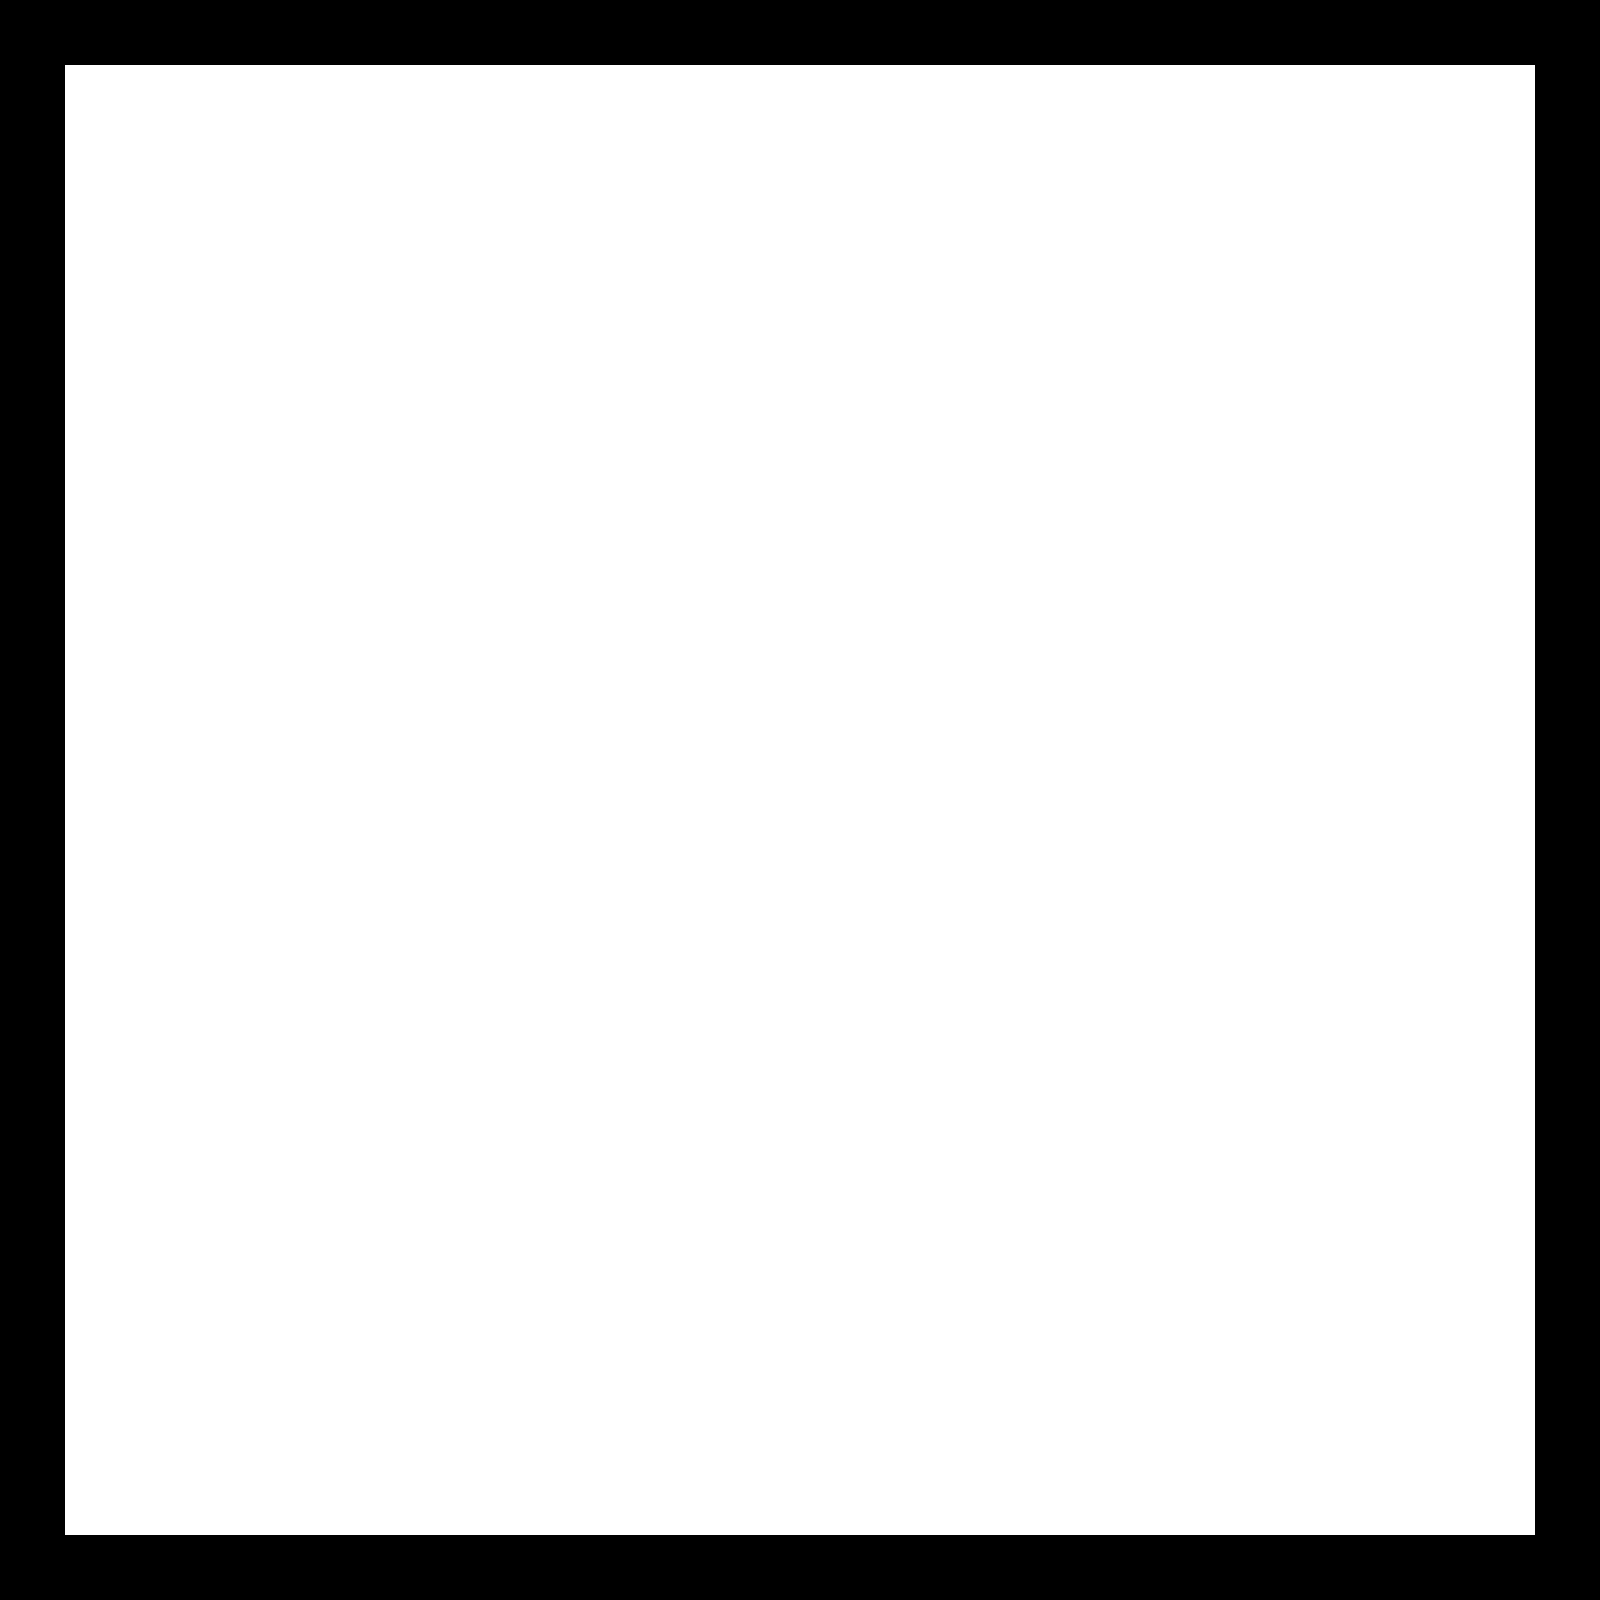
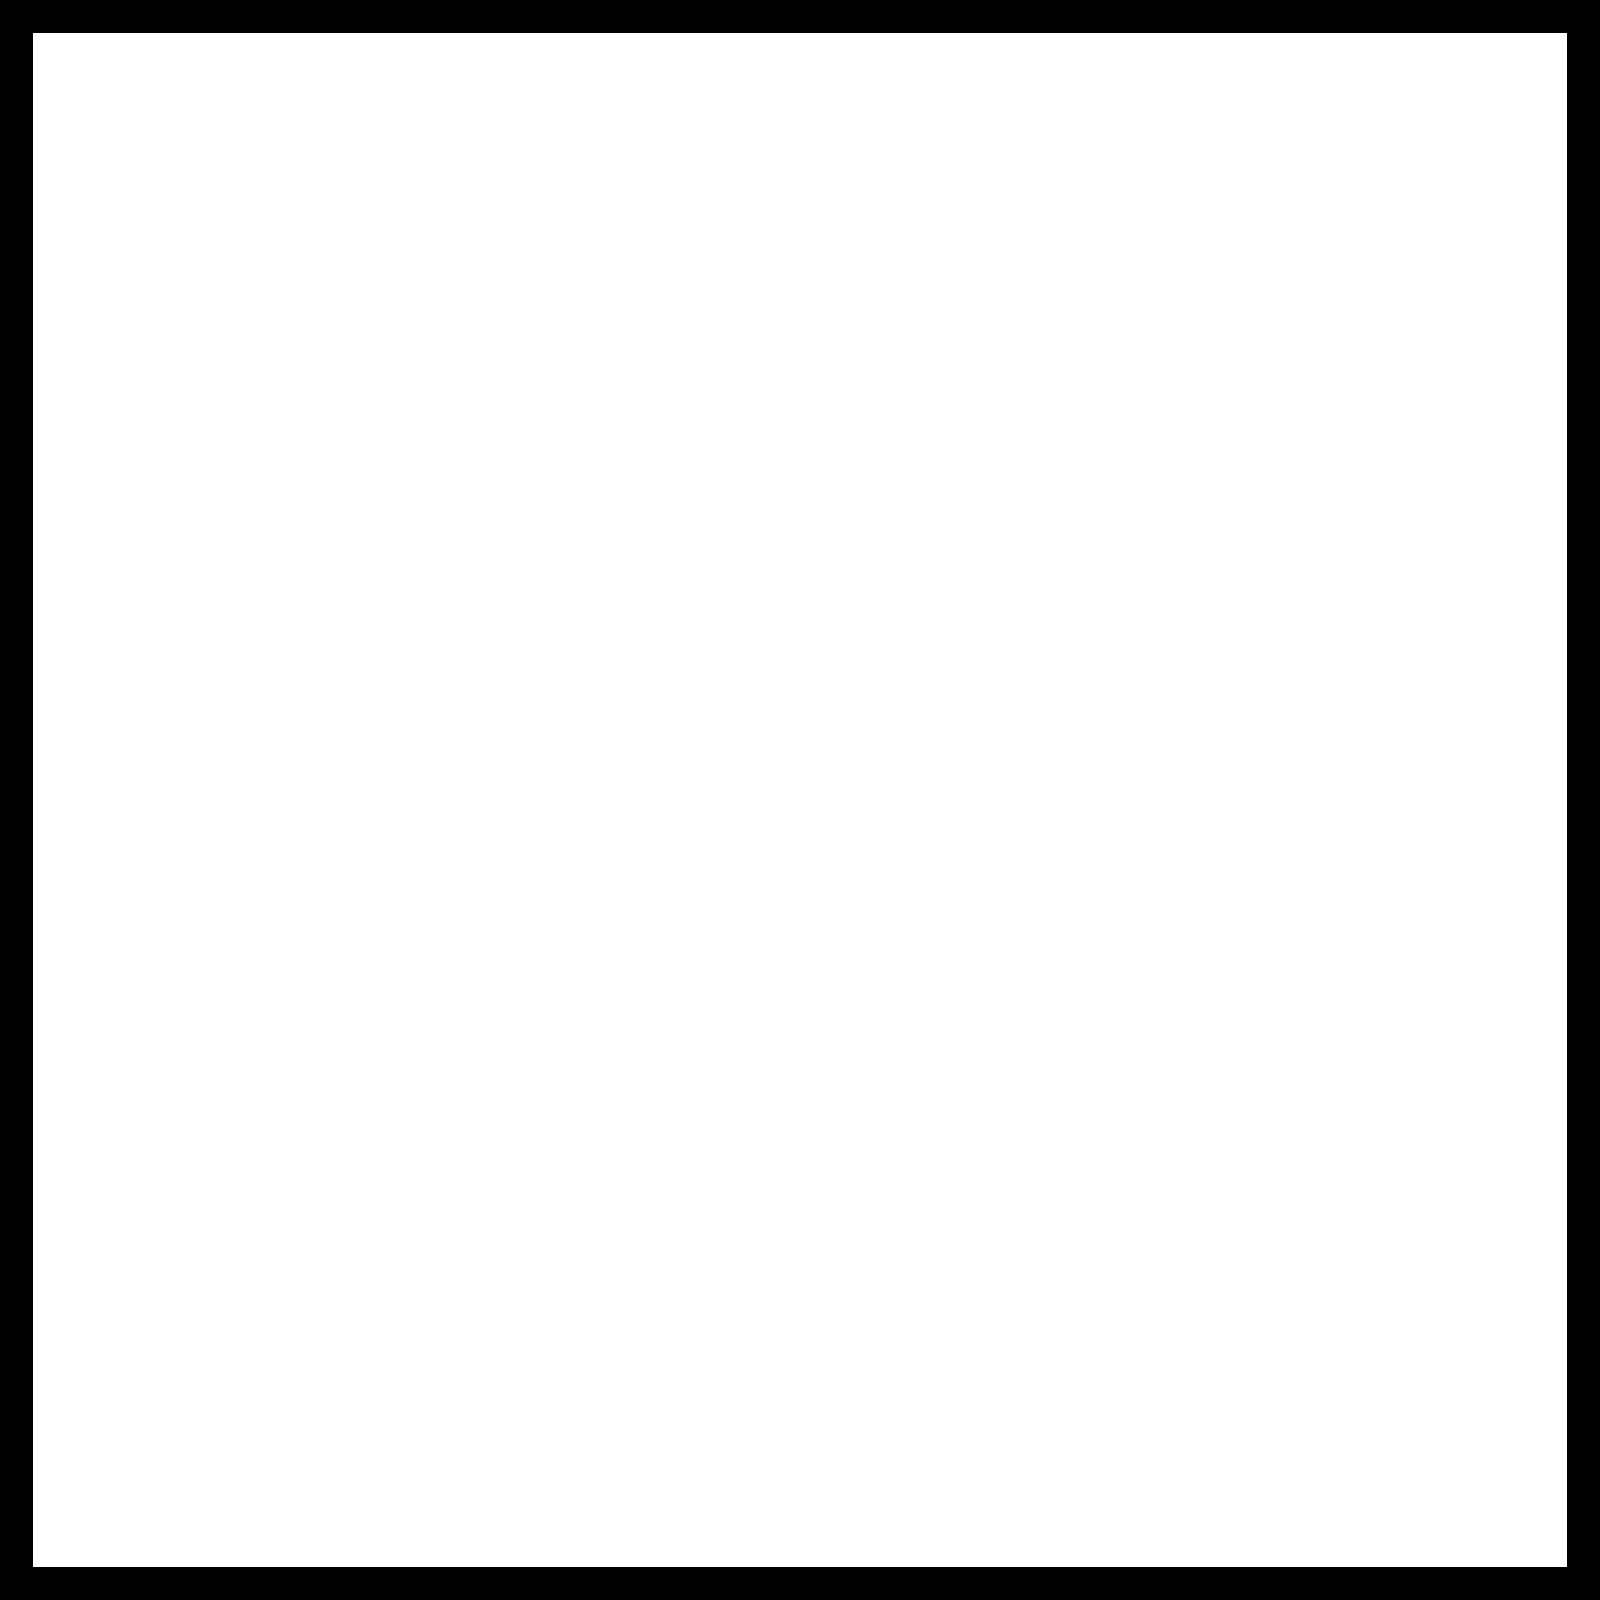
add actual empty image, change background to white

Changed region(s): [[0.0, 0.0, 1.0, 1.0]]

diff --git a/src/board.rs b/src/board.rs
@@ -3,7 +3,7 @@ use bevy::prelude::*;
 pub struct BoardPlugin;
 
 const MAX_LEVEL: u8 = 0;
-const MAX_BOARD_SIZE: f32 = 0.92;
+const MAX_BOARD_SIZE: f32 = 0.96;
 
 impl Plugin for BoardPlugin {
 	fn build(&self, app: &mut App) {
@@ -119,7 +119,7 @@ fn spawn_board(builder: &mut ChildBuilder, level: u8, offset: Vec2, board_border
 						builder.spawn((
 							SpriteBundle {
 								sprite: Sprite {
-									custom_size: Some(Vec2::new(1.0, 1.0)),
+									custom_size: Some(Vec2::new(0.75, 0.75)),
 									..default()
 								},
 								transform: Transform {

diff --git a/src/main.rs b/src/main.rs
@@ -12,7 +12,7 @@ fn main() {
 	App::new()
 		.add_plugins(
 			DefaultPlugins
-				.set(ImagePlugin::default_nearest())
+				// .set(ImagePlugin::default_nearest())
 				.set(WindowPlugin {
 					primary_window: Some(Window {
 						title: "Recursive TicTacToe".into(),
@@ -21,6 +21,7 @@ fn main() {
 					..default()
 				}),
 		)
+		.insert_resource(ClearColor(Color::WHITE))
 		.add_plugins(
 			WorldInspectorPlugin::default().run_if(input_toggle_active(true, KeyCode::Escape)),
 		)

diff --git a/src/ui.rs b/src/ui.rs
@@ -9,6 +9,8 @@ impl Plugin for GameUI {
 }
 
 fn spawn_game_ui(mut commands: Commands) {
+	return;
+
 	commands
 		.spawn((
 			NodeBundle {
